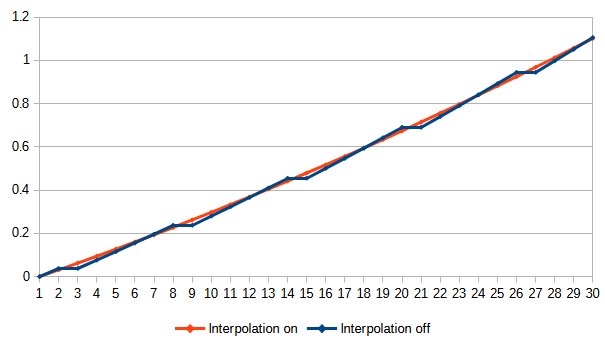
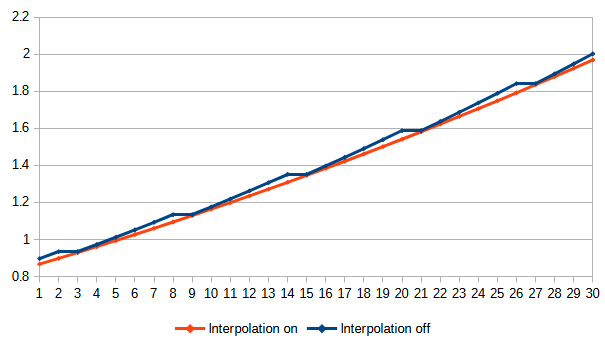
fix distortion of start position

diff --git a/Assets/Graph.cs b/Assets/Graph.cs
@@ -49,6 +49,7 @@ public class Graph : MonoBehaviour
 		velocity = 0;
 		acceleration = 0;
 		start = Time.time;
+		startPosition = position;
 	}
 
 	void Update()
@@ -59,11 +60,6 @@ public class Graph : MonoBehaviour
 		acceleration = (v - velocity) / dt;
 		velocity = v;
 		position = target.position;
-
-		if (current == 0)
-		{
-			startPosition = position;
-		}
 
 		if (t > start + 1f && current < steps)
 		{
